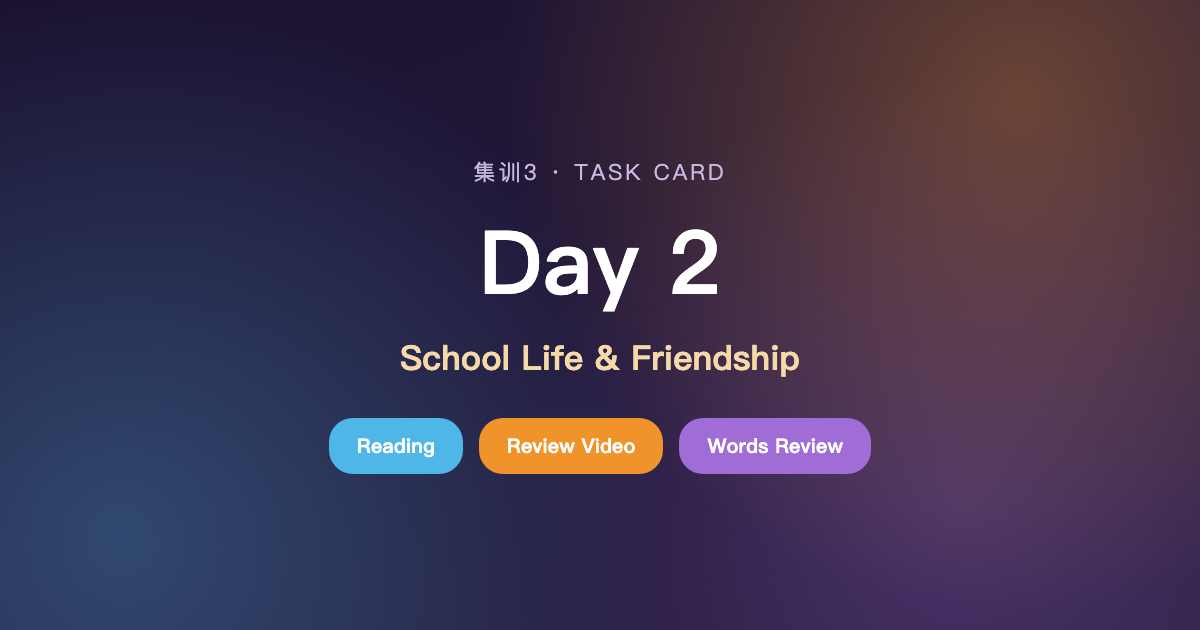
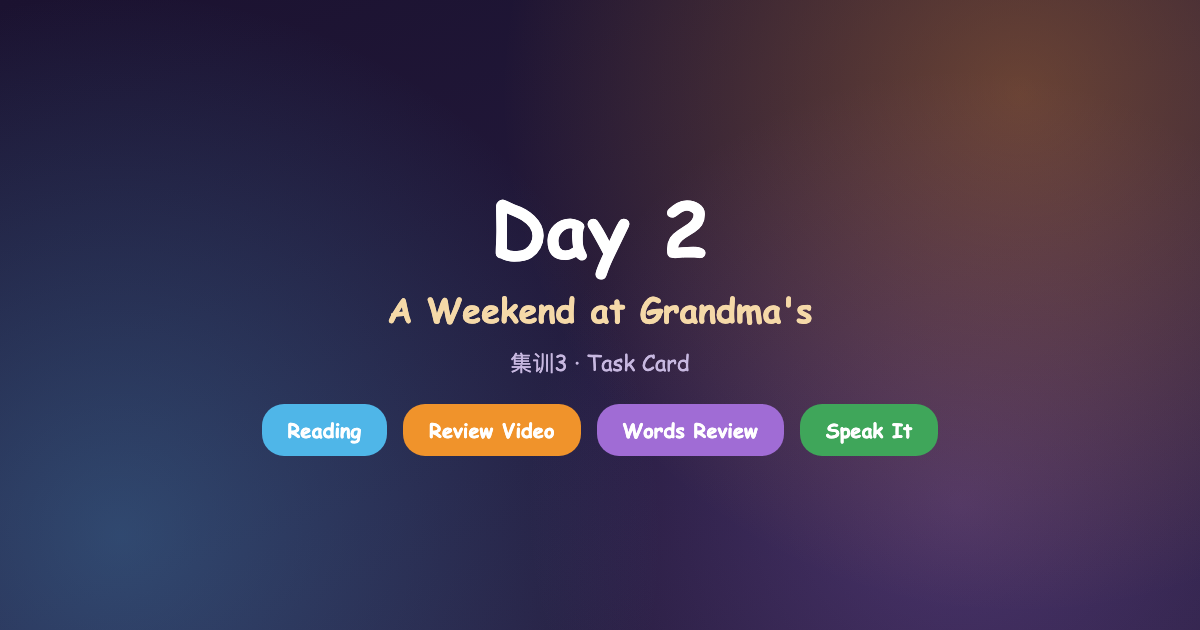
Replace Day2 with new word list (A Weekend at Grandma's); sync Day3's day2_review_audio and Speak It section to match

Changed region(s): [[0.2158, 0.6333, 0.8017, 0.754], [0.3083, 0.2413, 0.6783, 0.5127], [0.3392, 0.5429, 0.6783, 0.6032]]

diff --git a/day2/Day2_任务卡.html b/day2/Day2_任务卡.html
@@ -2,9 +2,9 @@
 <html lang="en">
 <head>
 <meta charset="utf-8">
-<title>集训3 Day 2 Task Card · School Life &amp; Friendship</title>
+<title>集训3 Day 2 Task Card · A Weekend at Grandma's</title>
 <meta name="viewport" content="width=device-width, initial-scale=1">
-<meta property="og:title" content="集训3 Day 2 · School Life &amp; Friendship">
+<meta property="og:title" content="集训3 Day 2 · A Weekend at Grandma's">
 <meta property="og:description" content="Reading, review video, and Words Review vocabulary practice for Day 2.">
 <meta property="og:image" content="https://jixun3-day1.rangel.club/day2/og-cover.png">
 <meta property="og:image:width" content="1200">
@@ -36,7 +36,6 @@ body { margin:0; font-family:"Segoe UI Rounded",-apple-system,"Comic Sans MS","P
 video, audio { width:100%; border-radius:12px; }
 .passage-text { margin-top:16px; font-size:1.1rem; line-height:1.8; color:#3a2f4d; background:#faf6ef; border-radius:16px; padding:20px 24px; }
 .hl-new { background:#FFE9A8; color:#1F6A8C; font-weight:800; padding:1px 5px; border-radius:6px; }
-.hl-review { background:#D8F0DC; color:#2f6b3f; font-weight:800; padding:1px 5px; border-radius:6px; }
 .legend { font-size:.9rem; color:#8a7fa0; margin-top:10px; }
 .legend span { font-weight:800; }
 .record-box { background:#F3ECF9; border:2px dashed var(--purple); border-radius:18px; padding:22px; margin-top:16px; text-align:center; }
@@ -51,6 +50,14 @@ video, audio { width:100%; border-radius:12px; }
 .wordsreview-btn:hover { opacity:.94; }
 .word-list { font-size:1rem; color:#3a2f4d; background:#faf6ef; border-radius:14px; padding:14px 18px; margin-top:12px; }
 .word-list b { color:#1F6A8C; }
+.speak-grid { display:grid; grid-template-columns:repeat(auto-fill, minmax(150px,1fr)); gap:12px; margin-top:14px; }
+.speak-card { background:#faf6ef; border-radius:14px; padding:12px 14px; }
+.speak-word { font-weight:900; font-size:1.1rem; color:#1F6A8C; }
+.speak-cn { font-weight:700; color:#a35a2a; font-size:.95rem; margin-top:2px; }
+.speak-ex { font-size:.85rem; color:#6a5f80; font-style:italic; margin-top:4px; }
+.speak-frame { background:#FFF3E3; border:1.5px solid var(--orange); border-radius:10px; padding:8px 10px; margin-top:8px; }
+.speak-frame .frame-label { font-size:.72rem; font-weight:800; color:#c9711a; text-transform:uppercase; letter-spacing:.5px; margin-bottom:3px; }
+.speak-frame .blank { display:inline-block; min-width:28px; border-bottom:2px solid #c9711a; color:transparent; }
 footer { text-align:center; color:#a89bc4; padding:30px; font-size:.9rem; }
 </style>
 </head>
@@ -59,7 +66,7 @@ footer { text-align:center; color:#a89bc4; padding:30px; font-size:.9rem; }
 <div class="hero">
   <div class="eyebrow">集训3 &nbsp;·&nbsp; TASK CARD</div>
   <h1>Day 2</h1>
-  <div class="sub">School Life &amp; Friendship</div>
+  <div class="sub">A Weekend at Grandma's</div>
   <div class="chips">
     <div class="chip c1">Step 1 · Reading</div>
     <div class="chip c2">Step 2 · Review Video</div>
@@ -75,9 +82,8 @@ footer { text-align:center; color:#a89bc4; padding:30px; font-size:.9rem; }
     <p class="desc">Listen to the story, then read along. Record yourself reading when you're ready.<br>
     先听故事，再跟读。准备好了就录音读一遍。</p>
     <audio controls preload="none"><source src="Day2_ReadAlong.mp3" type="audio/mpeg"></audio>
-    <div class="passage-text"><p>Mia was new at <span class="hl-new">school</span>. She felt <span class="hl-new">shy</span>.</p><p>At lunch, she looked for a <span class="hl-new">seat</span>.</p><p>She saw a <span class="hl-new">group</span> of kids. They were laughing.</p><p>"Can I sit here?" Mia asked.</p><p>No one answered right away, and Mia felt <span class="hl-new">alone</span>.</p><p>Then a girl named Ruby looked up.</p><p>"Sorry! Yes, sit here," Ruby said kindly.</p><p>Mia sat down. Ruby was <span class="hl-new">nice</span> and friendly.</p><p>"We have a <span class="hl-new">secret</span> club," Ruby said. "Want to hear about it?"</p><p>Mia smiled. She felt included now.</p><p>A boy named Theo was in Ruby's <span class="hl-new">group</span> too.</p><p>He shared his snack with Mia.</p><p>"We made a <span class="hl-new">promise</span>," Theo said. "Only good friends can join."</p><p>"What do I do?" Mia asked.</p><p>"Just be a good <span class="hl-new">friend</span>," Ruby said, and she smiled.</p><p>Mia felt <span class="hl-new">comfortable</span> and <span class="hl-new">proud</span>.</p><p>The next day, the <span class="hl-new">class</span> got a <span class="hl-new">group</span> project.</p><p>"Find a <span class="hl-new">group</span> of four," the teacher said.</p><p>Mia was in a <span class="hl-new">group</span> with Ruby, Theo, and a new <span class="hl-new">student</span> named Farah.</p><p>"Who wants to do what?" Ruby asked.</p><p>"I can draw," Theo said quickly.</p><p>Farah wanted to present, but she felt <span class="hl-new">shy</span> about saying it.</p><p>"I could present," Farah said softly.</p><p>Mia felt happy for her, and she said, "That's great!"</p><p>The <span class="hl-new">group</span> worked hard, but they had a small problem.</p><p>"This isn't fair," Theo said. "I have too much to do."</p><p>"Let's be <span class="hl-new">honest</span> about our work," Ruby said.</p><p>They talked, and they helped each other.</p><p>Farah felt <span class="hl-new">confident</span> now, and she practiced her lines with Mia.</p><p>By Friday, their poster was done, and every <span class="hl-new">member</span> helped.</p><p>"Great teamwork," the teacher said, and she congratulated the whole <span class="hl-new">group</span>.</p><p>Mia felt <span class="hl-new">proud</span>. She had good friends, and she trusted them.</p></div>
-    <p class="legend"><span class="hl-new" style="padding:1px 6px">word</span> = today's new words &nbsp;&nbsp;
-    <span class="hl-review" style="padding:1px 6px">word</span> = Day 1 review words</p>
+    <div class="passage-text"><p>On Saturday, Mia's <span class="hl-new">family</span> took a trip to <span class="hl-new">visit</span> her grandma. Grandma lived on a quiet <span class="hl-new">street</span> in a <span class="hl-new">small</span> town. Her house was <span class="hl-new">grand</span> and old. It had a red <span class="hl-new">front</span> door.</p><p>Mia's <span class="hl-new">parent</span>, her mom, packed snacks before they left <span class="hl-new">home</span>.</p><p>"Close your eyes," Mia's mom <span class="hl-new">said</span> in the car. "Picture Grandma's <span class="hl-new">garden</span>. Can you remember her flowers?"</p><p>Mia closed her eyes. She could almost see the <span class="hl-new">gentle</span> old dog by the <span class="hl-new">front</span> gate, and smell the <span class="hl-new">fresh</span> bread from the <span class="hl-new">kitchen</span> window.</p><p>When they arrived, Grandma opened the door. "Welcome, <span class="hl-new">dear</span> <span class="hl-new">family</span>!" she <span class="hl-new">said</span>. Her <span class="hl-new">kitchen</span> smelled of something <span class="hl-new">delicious</span>.</p><p>"We're <span class="hl-new">cooking</span> <span class="hl-new">dinner</span> together tonight," Grandma <span class="hl-new">said</span>. "I <span class="hl-new">need</span> your help to <span class="hl-new">make</span> a <span class="hl-new">choice</span>. Chicken or fish? It's more <span class="hl-new">convenient</span> if we decide now. Then I can go <span class="hl-new">buy</span> the <span class="hl-new">food</span>."</p><p>"Chicken!" Mia <span class="hl-new">said</span>. She loved watching Grandma <span class="hl-new">cook</span> in the <span class="hl-new">kitchen</span>.</p><p>Mia's <span class="hl-new">baby</span> cousin sat nearby, playing with a <span class="hl-new">small</span> <span class="hl-new">toy</span>. He <span class="hl-new">liked</span> to <span class="hl-new">jump</span> up and down whenever he heard <span class="hl-new">music</span> playing.</p><p>"He's a happy <span class="hl-new">baby</span>," Grandma <span class="hl-new">said</span>. "He <span class="hl-new">drinks</span> his <span class="hl-new">milk</span> and never <span class="hl-new">says</span> a <span class="hl-new">bad</span> word about it!"</p><p>At <span class="hl-new">dinner</span>, more <span class="hl-new">people</span> <span class="hl-new">came</span> to the <span class="hl-new">front</span> door. A tall, <span class="hl-new">handsome</span> <span class="hl-new">man</span> walked in. "This is your Uncle Tom," Mia's dad <span class="hl-new">said</span>. "He got <span class="hl-new">married</span> last <span class="hl-new">month</span>!"</p><p>"Congratulations!" everyone <span class="hl-new">said</span>. Uncle Tom smiled. "Let's <span class="hl-new">celebrate</span> with a big <span class="hl-new">family</span> <span class="hl-new">dinner</span> every year," he <span class="hl-new">said</span>. "I'll even <span class="hl-new">attend</span> next year's party a <span class="hl-new">day</span> early. I can help <span class="hl-new">cook</span>."</p><p>Grandma's neighbor from across the <span class="hl-new">street</span> stopped by too. "I saw the <span class="hl-new">light</span> in your <span class="hl-new">kitchen</span>," she <span class="hl-new">said</span>. "I hope it's a good <span class="hl-new">time</span>. I brought some <span class="hl-new">fresh</span> <span class="hl-new">fruit</span> for dessert!"</p><p>"<span class="hl-new">Come</span> in! You're always <span class="hl-new">invited</span>," Grandma <span class="hl-new">said</span>. "We have plenty for everyone to <span class="hl-new">eat</span>."</p><p>The table was full of <span class="hl-new">food</span>. There was warm bread, sweet <span class="hl-new">tea</span> with <span class="hl-new">sugar</span>, and a cup of <span class="hl-new">water</span> for each person. There was even <span class="hl-new">breakfast</span> <span class="hl-new">food</span>, because Grandma <span class="hl-new">said</span> pancakes are nice any <span class="hl-new">time</span> of <span class="hl-new">day</span>. Mia thought the pie was the most <span class="hl-new">delicious</span> thing she had eaten in a <span class="hl-new">long</span> <span class="hl-new">time</span>.</p><p>After <span class="hl-new">dinner</span>, Mia's <span class="hl-new">clever</span> little cousin asked, "Can we play a game?" The grown-ups agreed. Mia was the oldest cousin at the table. She felt <span class="hl-new">responsible</span> for the little ones. So she <span class="hl-new">offered</span> to play with him for a while.</p><p>Later that <span class="hl-new">night</span>, Mia called her friend Zoe on the <span class="hl-new">phone</span>. "I had a wonderful weekend at Grandma's house," Mia <span class="hl-new">said</span>. "Her <span class="hl-new">address</span> is 12 Maple <span class="hl-new">Street</span>. I want to <span class="hl-new">visit</span> <span class="hl-new">again</span> next <span class="hl-new">week</span>."</p><p>"That sounds <span class="hl-new">cool</span>," Zoe <span class="hl-new">said</span>. "You always <span class="hl-new">say</span> the nicest things about your <span class="hl-new">family</span>. Next <span class="hl-new">time</span>, <span class="hl-new">invite</span> me too!"</p><p>Mia smiled. Grandma's house was the most <span class="hl-new">popular</span> place in the whole <span class="hl-new">family</span>, and now Mia knew why.</p></div>
+    <p class="legend"><span class="hl-new" style="padding:1px 6px">word</span> = today's new words</p>
     <div class="record-box">
       <div style="font-weight:800; margin-bottom:8px">Record Yourself Reading 录音跟读</div>
       <button class="rec-btn rec-start" id="startBtn1">🎙 Start Recording</button>
@@ -94,7 +100,7 @@ footer { text-align:center; color:#a89bc4; padding:30px; font-size:.9rem; }
     <p class="desc">Today in class, these 19 words only got a quick look — not enough time to really practice them yet. Watch this video to get to know them better before we practice using them soon.<br>
     今天课上这19个词只来得及"认识一下"，还没机会真正练习。看看这个视频，为很快要做的产出练习打好基础。</p>
     <video controls preload="none"><source src="Day2_Tier2_Review.mp4" type="video/mp4"></video>
-    <div class="word-list"><b>Words in this video 视频里的词：</b> <b>care</b>, <b>support</b>, <b>communicate</b>, <b>introduce</b>, <b>accept</b>, <b>cheer</b>, <b>congratulate</b>, <b>nice</b>, <b>polite</b>, <b>popular</b>, <b>smart</b>, <b>gentle</b>, <b>confident</b>, <b>mean</b>, <b>worry</b>, <b>fight</b>, <b>celebrate</b>, <b>invite</b>, <b>promise</b></div>
+    <div class="word-list"><b>Words in this video 视频里的词：</b> <b>family</b>, <b>parent</b>, <b>visit</b>, <b>garden</b>, <b>kitchen</b>, <b>cook</b>, <b>dinner</b>, <b>street</b>, <b>home</b>, <b>invite</b>, <b>dear</b>, <b>phone</b>, <b>address</b>, <b>come</b>, <b>make</b>, <b>need</b>, <b>people</b>, <b>day</b>, <b>front</b></div>
   </div>
 
   <div class="step">
@@ -106,9 +112,9 @@ footer { text-align:center; color:#a89bc4; padding:30px; font-size:.9rem; }
 
   <div class="step">
     <h2><span class="step-num" style="background:var(--green)">4</span>Speak It</h2>
-    <p class="desc">Today in class you used these Day 1 words in speaking practice. Record 2-3 sentences using at least 3 of them, to help them really stick.<br>
-    今天课上你用这几个第一天学过的词做了口语练习。录一段话，用上至少3个词，帮它们真正记牢。</p>
-    <div class="word-list"><b>Words to use 可以用的词：</b> <b>nervous</b>, <b>jealous</b>, <b>lonely</b>, <b>curious</b>, <b>brave</b>, <b>stubborn</b>, <b>generous</b>, <b>selfish</b>, <b>thoughtful</b>, <b>forgetful</b>, <b>loyal</b>, <b>trustworthy</b>, <b>determined</b>, <b>grateful</b></div>
+    <p class="desc">Pick just 1–2 words below that you like. Tap 🔊 to hear each word, look at the meaning and example sentence, then say your own sentence out loud. It's OK to look at the example while you talk — you don't need to memorize anything.<br>
+    从下面挑1-2个你喜欢的词就行。点🔊听发音，看看中文意思和例句，然后自己说一句话。说的时候可以看着例句，不用背下来。</p>
+    <div class="speak-grid"><div class="speak-card"><div class="speak-word">honest</div><audio controls preload="none" style="height:32px; width:100%; margin:6px 0;"><source src="day1_review_audio/honest.mp3" type="audio/mpeg"></audio><div class="speak-cn">诚实的</div><div class="speak-ex">Ben seemed honest and friendly.</div><div class="speak-frame"><div class="frame-label">How to use it 怎么用</div>I try to be honest with <span class="blank">___</span>.</div></div><div class="speak-card"><div class="speak-word">polite</div><audio controls preload="none" style="height:32px; width:100%; margin:6px 0;"><source src="day1_review_audio/polite.mp3" type="audio/mpeg"></audio><div class="speak-cn">有礼貌的</div><div class="speak-ex">Zoe was polite and asked Mia lots of questions.</div><div class="speak-frame"><div class="frame-label">How to use it 怎么用</div><span class="blank">___</span> is polite.</div></div><div class="speak-card"><div class="speak-word">kind</div><audio controls preload="none" style="height:32px; width:100%; margin:6px 0;"><source src="day1_review_audio/kind.mp3" type="audio/mpeg"></audio><div class="speak-cn">善良的</div><div class="speak-ex">A kind woman at the office welcomed Mia.</div><div class="speak-frame"><div class="frame-label">How to use it 怎么用</div><span class="blank">___</span> is kind.</div></div><div class="speak-card"><div class="speak-word">trust</div><audio controls preload="none" style="height:32px; width:100%; margin:6px 0;"><source src="day1_review_audio/trust.mp3" type="audio/mpeg"></audio><div class="speak-cn">信任</div><div class="speak-ex">Mia began to trust her new classmates.</div><div class="speak-frame"><div class="frame-label">How to use it 怎么用</div>I trust <span class="blank">___</span>.</div></div><div class="speak-card"><div class="speak-word">care</div><audio controls preload="none" style="height:32px; width:100%; margin:6px 0;"><source src="day1_review_audio/care.mp3" type="audio/mpeg"></audio><div class="speak-cn">关心</div><div class="speak-ex">Mia wanted to care about her group's answer.</div><div class="speak-frame"><div class="frame-label">How to use it 怎么用</div>I care about <span class="blank">___</span>.</div></div><div class="speak-card"><div class="speak-word">believe</div><audio controls preload="none" style="height:32px; width:100%; margin:6px 0;"><source src="day1_review_audio/believe.mp3" type="audio/mpeg"></audio><div class="speak-cn">相信</div><div class="speak-ex">She started to believe this school would become a nice place.</div><div class="speak-frame"><div class="frame-label">How to use it 怎么用</div>I believe <span class="blank">___</span>.</div></div><div class="speak-card"><div class="speak-word">comfortable</div><audio controls preload="none" style="height:32px; width:100%; margin:6px 0;"><source src="day1_review_audio/comfortable.mp3" type="audio/mpeg"></audio><div class="speak-cn">舒服的</div><div class="speak-ex">Mia felt comfortable next to Ben and Zoe.</div><div class="speak-frame"><div class="frame-label">How to use it 怎么用</div>I feel comfortable with <span class="blank">___</span>.</div></div><div class="speak-card"><div class="speak-word">confident</div><audio controls preload="none" style="height:32px; width:100%; margin:6px 0;"><source src="day1_review_audio/confident.mp3" type="audio/mpeg"></audio><div class="speak-cn">自信的</div><div class="speak-ex">She tried to stay confident in the new classroom.</div><div class="speak-frame"><div class="frame-label">How to use it 怎么用</div><span class="blank">___</span> feels confident.</div></div><div class="speak-card"><div class="speak-word">encourage</div><audio controls preload="none" style="height:32px; width:100%; margin:6px 0;"><source src="day1_review_audio/encourage.mp3" type="audio/mpeg"></audio><div class="speak-cn">鼓励</div><div class="speak-ex">We can encourage each other to learn.</div><div class="speak-frame"><div class="frame-label">How to use it 怎么用</div>I encourage <span class="blank">___</span>.</div></div><div class="speak-card"><div class="speak-word">appreciate</div><audio controls preload="none" style="height:32px; width:100%; margin:6px 0;"><source src="day1_review_audio/appreciate.mp3" type="audio/mpeg"></audio><div class="speak-cn">感激</div><div class="speak-ex">I appreciate your help, Ben said.</div><div class="speak-frame"><div class="frame-label">How to use it 怎么用</div>I appreciate <span class="blank">___</span>.</div></div><div class="speak-card"><div class="speak-word">promise</div><audio controls preload="none" style="height:32px; width:100%; margin:6px 0;"><source src="day1_review_audio/promise.mp3" type="audio/mpeg"></audio><div class="speak-cn">承诺</div><div class="speak-ex">I promise you will like this story, Zoe said.</div><div class="speak-frame"><div class="frame-label">How to use it 怎么用</div>I promise to <span class="blank">___</span>.</div></div><div class="speak-card"><div class="speak-word">share</div><audio controls preload="none" style="height:32px; width:100%; margin:6px 0;"><source src="day1_review_audio/share.mp3" type="audio/mpeg"></audio><div class="speak-cn">分享</div><div class="speak-ex">You can share my book, Zoe said.</div><div class="speak-frame"><div class="frame-label">How to use it 怎么用</div>I share <span class="blank">___</span> with my friend.</div></div><div class="speak-card"><div class="speak-word">excited</div><audio controls preload="none" style="height:32px; width:100%; margin:6px 0;"><source src="day1_review_audio/excited.mp3" type="audio/mpeg"></audio><div class="speak-cn">兴奋的</div><div class="speak-ex">She felt excited, but a little nervous too.</div><div class="speak-frame"><div class="frame-label">How to use it 怎么用</div>I feel excited about <span class="blank">___</span>.</div></div><div class="speak-card"><div class="speak-word">curious</div><audio controls preload="none" style="height:32px; width:100%; margin:6px 0;"><source src="day1_review_audio/curious.mp3" type="audio/mpeg"></audio><div class="speak-cn">好奇的</div><div class="speak-ex">She was curious and wanted to help her group.</div><div class="speak-frame"><div class="frame-label">How to use it 怎么用</div>I am curious about <span class="blank">___</span>.</div></div><div class="speak-card"><div class="speak-word">together</div><audio controls preload="none" style="height:32px; width:100%; margin:6px 0;"><source src="day1_review_audio/together.mp3" type="audio/mpeg"></audio><div class="speak-cn">一起</div><div class="speak-ex">It's more fun to learn together than alone.</div><div class="speak-frame"><div class="frame-label">How to use it 怎么用</div>I like to <span class="blank">___</span> together with my friend.</div></div></div>
     <div class="record-box">
       <div style="font-weight:800; margin-bottom:8px">Record Your Sentences 录音说句子</div>
       <button class="rec-btn rec-start" id="startBtn2">🎙 Start Recording</button>
@@ -122,7 +128,7 @@ footer { text-align:center; color:#a89bc4; padding:30px; font-size:.9rem; }
 
 </div>
 
-<footer>集训3 · Day 2 · School Life &amp; Friendship</footer>
+<footer>集训3 · Day 2 · A Weekend at Grandma's</footer>
 
 <script>
 (function() {

diff --git a/day2/index.html b/day2/index.html
@@ -3,7 +3,7 @@
 <title>集训3 Day 2 Task Card</title>
 <meta property="og:url" content="https://jixun3-day1.rangel.club/day2/">
 <meta http-equiv="refresh" content="0; url=Day2_任务卡.html">
-<meta property="og:title" content="集训3 Day 2 · School Life & Friendship">
+<meta property="og:title" content="集训3 Day 2 · A Weekend at Grandma's">
 <meta property="og:description" content="Reading, review video, and Words Review vocabulary practice for Day 2.">
 <meta property="og:image" content="https://jixun3-day1.rangel.club/day2/og-cover.png">
 <meta property="og:image:width" content="1200">

diff --git a/day3/Day3_任务卡.html b/day3/Day3_任务卡.html
@@ -116,7 +116,7 @@ footer { text-align:center; color:#a89bc4; padding:30px; font-size:.9rem; }
     <h2><span class="step-num" style="background:var(--green)">4</span>Speak It</h2>
     <p class="desc">Pick just 1–2 words below that you like. Tap 🔊 to hear each word, look at the meaning and example sentence, then say your own sentence out loud. It's OK to look at the example while you talk — you don't need to memorize anything.<br>
     从下面挑1-2个你喜欢的词就行。点🔊听发音，看看中文意思和例句，然后自己说一句话。说的时候可以看着例句，不用背下来。</p>
-    <div class="speak-grid"><div class="speak-card"><div class="speak-word">care</div><audio controls preload="none" style="height:32px; width:100%; margin:6px 0;"><source src="day2_review_audio/care.mp3" type="audio/mpeg"></audio><div class="speak-cn">关心</div><div class="speak-ex">I care about my friends.</div><div class="speak-frame"><div class="frame-label">How to use it 怎么用</div>I care about <span class="blank">___</span>.</div></div><div class="speak-card"><div class="speak-word">support</div><audio controls preload="none" style="height:32px; width:100%; margin:6px 0;"><source src="day2_review_audio/support.mp3" type="audio/mpeg"></audio><div class="speak-cn">支持</div><div class="speak-ex">I support my friend.</div><div class="speak-frame"><div class="frame-label">How to use it 怎么用</div>I support <span class="blank">___</span>.</div></div><div class="speak-card"><div class="speak-word">communicate</div><audio controls preload="none" style="height:32px; width:100%; margin:6px 0;"><source src="day2_review_audio/communicate.mp3" type="audio/mpeg"></audio><div class="speak-cn">交流</div><div class="speak-ex">I communicate with my friend.</div><div class="speak-frame"><div class="frame-label">How to use it 怎么用</div>I communicate with <span class="blank">___</span>.</div></div><div class="speak-card"><div class="speak-word">introduce</div><audio controls preload="none" style="height:32px; width:100%; margin:6px 0;"><source src="day2_review_audio/introduce.mp3" type="audio/mpeg"></audio><div class="speak-cn">介绍</div><div class="speak-ex">I introduce my friend.</div><div class="speak-frame"><div class="frame-label">How to use it 怎么用</div>I introduce <span class="blank">___</span>.</div></div><div class="speak-card"><div class="speak-word">accept</div><audio controls preload="none" style="height:32px; width:100%; margin:6px 0;"><source src="day2_review_audio/accept.mp3" type="audio/mpeg"></audio><div class="speak-cn">接受</div><div class="speak-ex">I accept your gift.</div><div class="speak-frame"><div class="frame-label">How to use it 怎么用</div>I accept <span class="blank">___</span>.</div></div><div class="speak-card"><div class="speak-word">cheer</div><audio controls preload="none" style="height:32px; width:100%; margin:6px 0;"><source src="day2_review_audio/cheer.mp3" type="audio/mpeg"></audio><div class="speak-cn">欢呼；加油</div><div class="speak-ex">I cheer for my team.</div><div class="speak-frame"><div class="frame-label">How to use it 怎么用</div>I cheer for <span class="blank">___</span>.</div></div><div class="speak-card"><div class="speak-word">congratulate</div><audio controls preload="none" style="height:32px; width:100%; margin:6px 0;"><source src="day2_review_audio/congratulate.mp3" type="audio/mpeg"></audio><div class="speak-cn">祝贺</div><div class="speak-ex">I congratulate my friend.</div><div class="speak-frame"><div class="frame-label">How to use it 怎么用</div>I congratulate <span class="blank">___</span>.</div></div><div class="speak-card"><div class="speak-word">nice</div><audio controls preload="none" style="height:32px; width:100%; margin:6px 0;"><source src="day2_review_audio/nice.mp3" type="audio/mpeg"></audio><div class="speak-cn">友好的</div><div class="speak-ex">My friend is nice.</div><div class="speak-frame"><div class="frame-label">How to use it 怎么用</div><span class="blank">___</span> is nice.</div></div><div class="speak-card"><div class="speak-word">polite</div><audio controls preload="none" style="height:32px; width:100%; margin:6px 0;"><source src="day2_review_audio/polite.mp3" type="audio/mpeg"></audio><div class="speak-cn">有礼貌的</div><div class="speak-ex">She is polite.</div><div class="speak-frame"><div class="frame-label">How to use it 怎么用</div><span class="blank">___</span> is polite.</div></div><div class="speak-card"><div class="speak-word">popular</div><audio controls preload="none" style="height:32px; width:100%; margin:6px 0;"><source src="day2_review_audio/popular.mp3" type="audio/mpeg"></audio><div class="speak-cn">受欢迎的</div><div class="speak-ex">He is popular.</div><div class="speak-frame"><div class="frame-label">How to use it 怎么用</div><span class="blank">___</span> is popular.</div></div><div class="speak-card"><div class="speak-word">smart</div><audio controls preload="none" style="height:32px; width:100%; margin:6px 0;"><source src="day2_review_audio/smart.mp3" type="audio/mpeg"></audio><div class="speak-cn">聪明的</div><div class="speak-ex">My friend is smart.</div><div class="speak-frame"><div class="frame-label">How to use it 怎么用</div><span class="blank">___</span> is smart.</div></div><div class="speak-card"><div class="speak-word">gentle</div><audio controls preload="none" style="height:32px; width:100%; margin:6px 0;"><source src="day2_review_audio/gentle.mp3" type="audio/mpeg"></audio><div class="speak-cn">温柔的</div><div class="speak-ex">My mom is gentle.</div><div class="speak-frame"><div class="frame-label">How to use it 怎么用</div><span class="blank">___</span> is gentle.</div></div><div class="speak-card"><div class="speak-word">confident</div><audio controls preload="none" style="height:32px; width:100%; margin:6px 0;"><source src="day2_review_audio/confident.mp3" type="audio/mpeg"></audio><div class="speak-cn">自信的</div><div class="speak-ex">My friend feels confident.</div><div class="speak-frame"><div class="frame-label">How to use it 怎么用</div><span class="blank">___</span> feels confident.</div></div><div class="speak-card"><div class="speak-word">mean</div><audio controls preload="none" style="height:32px; width:100%; margin:6px 0;"><source src="day2_review_audio/mean.mp3" type="audio/mpeg"></audio><div class="speak-cn">刻薄的</div><div class="speak-ex">He was mean to me.</div><div class="speak-frame"><div class="frame-label">How to use it 怎么用</div><span class="blank">___</span> was mean to me.</div></div><div class="speak-card"><div class="speak-word">fight</div><audio controls preload="none" style="height:32px; width:100%; margin:6px 0;"><source src="day2_review_audio/fight.mp3" type="audio/mpeg"></audio><div class="speak-cn">争吵；打架</div><div class="speak-ex">I had a fight with my brother.</div><div class="speak-frame"><div class="frame-label">How to use it 怎么用</div>I had a fight with <span class="blank">___</span>.</div></div><div class="speak-card"><div class="speak-word">celebrate</div><audio controls preload="none" style="height:32px; width:100%; margin:6px 0;"><source src="day2_review_audio/celebrate.mp3" type="audio/mpeg"></audio><div class="speak-cn">庆祝</div><div class="speak-ex">We celebrate my birthday.</div><div class="speak-frame"><div class="frame-label">How to use it 怎么用</div>We celebrate <span class="blank">___</span>.</div></div><div class="speak-card"><div class="speak-word">invite</div><audio controls preload="none" style="height:32px; width:100%; margin:6px 0;"><source src="day2_review_audio/invite.mp3" type="audio/mpeg"></audio><div class="speak-cn">邀请</div><div class="speak-ex">I invite my friend.</div><div class="speak-frame"><div class="frame-label">How to use it 怎么用</div>I invite <span class="blank">___</span>.</div></div><div class="speak-card"><div class="speak-word">promise</div><audio controls preload="none" style="height:32px; width:100%; margin:6px 0;"><source src="day2_review_audio/promise.mp3" type="audio/mpeg"></audio><div class="speak-cn">承诺</div><div class="speak-ex">I promise to help.</div><div class="speak-frame"><div class="frame-label">How to use it 怎么用</div>I promise to <span class="blank">___</span>.</div></div></div>
+    <div class="speak-grid"><div class="speak-card"><div class="speak-word">gentle</div><audio controls preload="none" style="height:32px; width:100%; margin:6px 0;"><source src="day2_review_audio/gentle.mp3" type="audio/mpeg"></audio><div class="speak-cn">温柔的</div><div class="speak-ex">She could see the gentle old dog by the front gate.</div><div class="speak-frame"><div class="frame-label">How to use it 怎么用</div>My mom is <span class="blank">___</span>.</div></div><div class="speak-card"><div class="speak-word">fresh</div><audio controls preload="none" style="height:32px; width:100%; margin:6px 0;"><source src="day2_review_audio/fresh.mp3" type="audio/mpeg"></audio><div class="speak-cn">新鲜的</div><div class="speak-ex">She could smell the fresh bread from the kitchen window.</div><div class="speak-frame"><div class="frame-label">How to use it 怎么用</div>The <span class="blank">___</span> is fresh.</div></div><div class="speak-card"><div class="speak-word">convenient</div><audio controls preload="none" style="height:32px; width:100%; margin:6px 0;"><source src="day2_review_audio/convenient.mp3" type="audio/mpeg"></audio><div class="speak-cn">方便的</div><div class="speak-ex">It's more convenient if we decide now.</div><div class="speak-frame"><div class="frame-label">How to use it 怎么用</div>It is convenient to <span class="blank">___</span>.</div></div><div class="speak-card"><div class="speak-word">choice</div><audio controls preload="none" style="height:32px; width:100%; margin:6px 0;"><source src="day2_review_audio/choice.mp3" type="audio/mpeg"></audio><div class="speak-cn">选择</div><div class="speak-ex">I need your help to make a choice.</div><div class="speak-frame"><div class="frame-label">How to use it 怎么用</div>I made a choice to <span class="blank">___</span>.</div></div><div class="speak-card"><div class="speak-word">delicious</div><audio controls preload="none" style="height:32px; width:100%; margin:6px 0;"><source src="day2_review_audio/delicious.mp3" type="audio/mpeg"></audio><div class="speak-cn">美味的</div><div class="speak-ex">Her kitchen smelled of something delicious.</div><div class="speak-frame"><div class="frame-label">How to use it 怎么用</div>The <span class="blank">___</span> is delicious.</div></div><div class="speak-card"><div class="speak-word">grand</div><audio controls preload="none" style="height:32px; width:100%; margin:6px 0;"><source src="day2_review_audio/grand.mp3" type="audio/mpeg"></audio><div class="speak-cn">宏伟的</div><div class="speak-ex">Her house was grand and old.</div><div class="speak-frame"><div class="frame-label">How to use it 怎么用</div>The <span class="blank">___</span> is grand.</div></div><div class="speak-card"><div class="speak-word">handsome</div><audio controls preload="none" style="height:32px; width:100%; margin:6px 0;"><source src="day2_review_audio/handsome.mp3" type="audio/mpeg"></audio><div class="speak-cn">英俊的</div><div class="speak-ex">A tall, handsome man walked in.</div><div class="speak-frame"><div class="frame-label">How to use it 怎么用</div><span class="blank">___</span> is handsome.</div></div><div class="speak-card"><div class="speak-word">responsible</div><audio controls preload="none" style="height:32px; width:100%; margin:6px 0;"><source src="day2_review_audio/responsible.mp3" type="audio/mpeg"></audio><div class="speak-cn">负责任的</div><div class="speak-ex">She felt responsible for the little ones.</div><div class="speak-frame"><div class="frame-label">How to use it 怎么用</div>I feel responsible for <span class="blank">___</span>.</div></div><div class="speak-card"><div class="speak-word">married</div><audio controls preload="none" style="height:32px; width:100%; margin:6px 0;"><source src="day2_review_audio/married.mp3" type="audio/mpeg"></audio><div class="speak-cn">已婚的</div><div class="speak-ex">He got married last month!</div><div class="speak-frame"><div class="frame-label">How to use it 怎么用</div><span class="blank">___</span> got married.</div></div><div class="speak-card"><div class="speak-word">celebrate</div><audio controls preload="none" style="height:32px; width:100%; margin:6px 0;"><source src="day2_review_audio/celebrate.mp3" type="audio/mpeg"></audio><div class="speak-cn">庆祝</div><div class="speak-ex">Let's celebrate with a big family dinner every year.</div><div class="speak-frame"><div class="frame-label">How to use it 怎么用</div>We celebrate <span class="blank">___</span>.</div></div><div class="speak-card"><div class="speak-word">clever</div><audio controls preload="none" style="height:32px; width:100%; margin:6px 0;"><source src="day2_review_audio/clever.mp3" type="audio/mpeg"></audio><div class="speak-cn">聪明的</div><div class="speak-ex">Mia's clever little cousin asked, Can we play a game?</div><div class="speak-frame"><div class="frame-label">How to use it 怎么用</div><span class="blank">___</span> is clever.</div></div><div class="speak-card"><div class="speak-word">cool</div><audio controls preload="none" style="height:32px; width:100%; margin:6px 0;"><source src="day2_review_audio/cool.mp3" type="audio/mpeg"></audio><div class="speak-cn">很酷的</div><div class="speak-ex">That sounds cool, Zoe said.</div><div class="speak-frame"><div class="frame-label">How to use it 怎么用</div>That sounds cool to <span class="blank">___</span>.</div></div><div class="speak-card"><div class="speak-word">attend</div><audio controls preload="none" style="height:32px; width:100%; margin:6px 0;"><source src="day2_review_audio/attend.mp3" type="audio/mpeg"></audio><div class="speak-cn">参加</div><div class="speak-ex">I'll even attend next year's party a day early.</div><div class="speak-frame"><div class="frame-label">How to use it 怎么用</div>I will attend <span class="blank">___</span>.</div></div><div class="speak-card"><div class="speak-word">offer</div><audio controls preload="none" style="height:32px; width:100%; margin:6px 0;"><source src="day2_review_audio/offer.mp3" type="audio/mpeg"></audio><div class="speak-cn">主动提供</div><div class="speak-ex">She offered to play with him for a while.</div><div class="speak-frame"><div class="frame-label">How to use it 怎么用</div>I offer to <span class="blank">___</span>.</div></div><div class="speak-card"><div class="speak-word">popular</div><audio controls preload="none" style="height:32px; width:100%; margin:6px 0;"><source src="day2_review_audio/popular.mp3" type="audio/mpeg"></audio><div class="speak-cn">受欢迎的</div><div class="speak-ex">Grandma's house was the most popular place in the family.</div><div class="speak-frame"><div class="frame-label">How to use it 怎么用</div><span class="blank">___</span> is popular.</div></div></div>
     <div class="record-box">
       <div style="font-weight:800; margin-bottom:8px">Record Your Sentences 录音说句子</div>
       <button class="rec-btn rec-start" id="startBtn2">🎙 Start Recording</button>